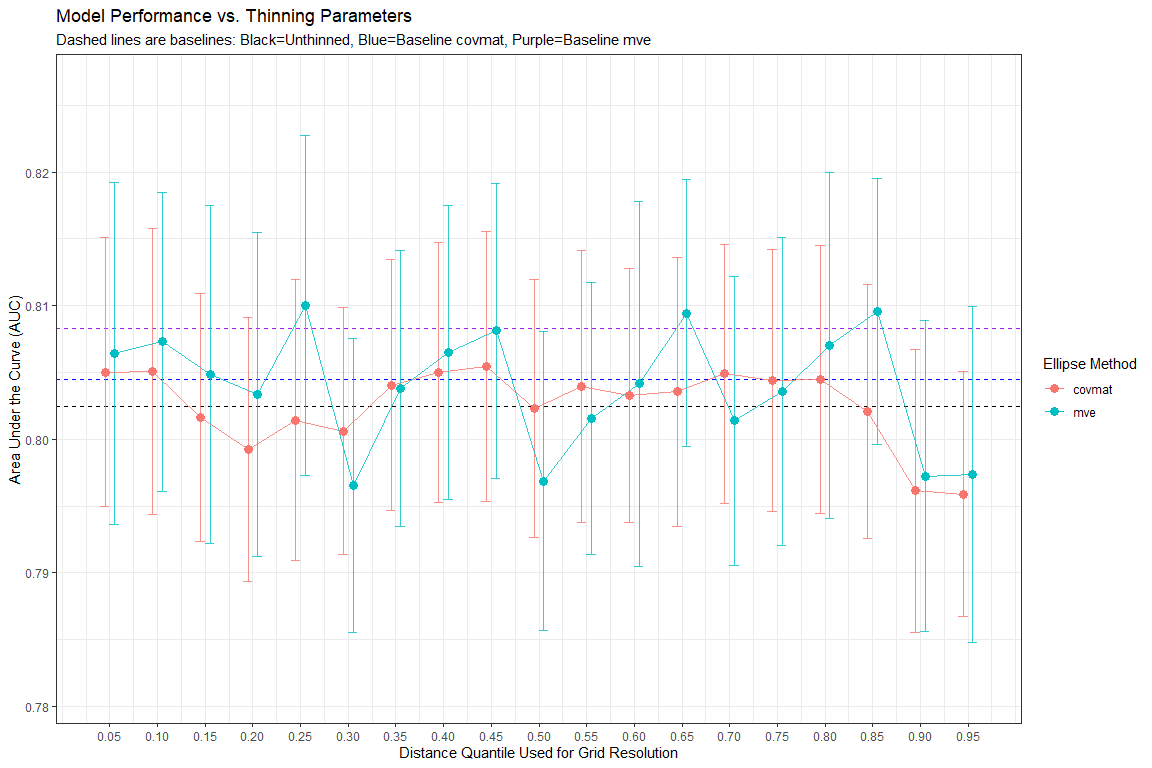
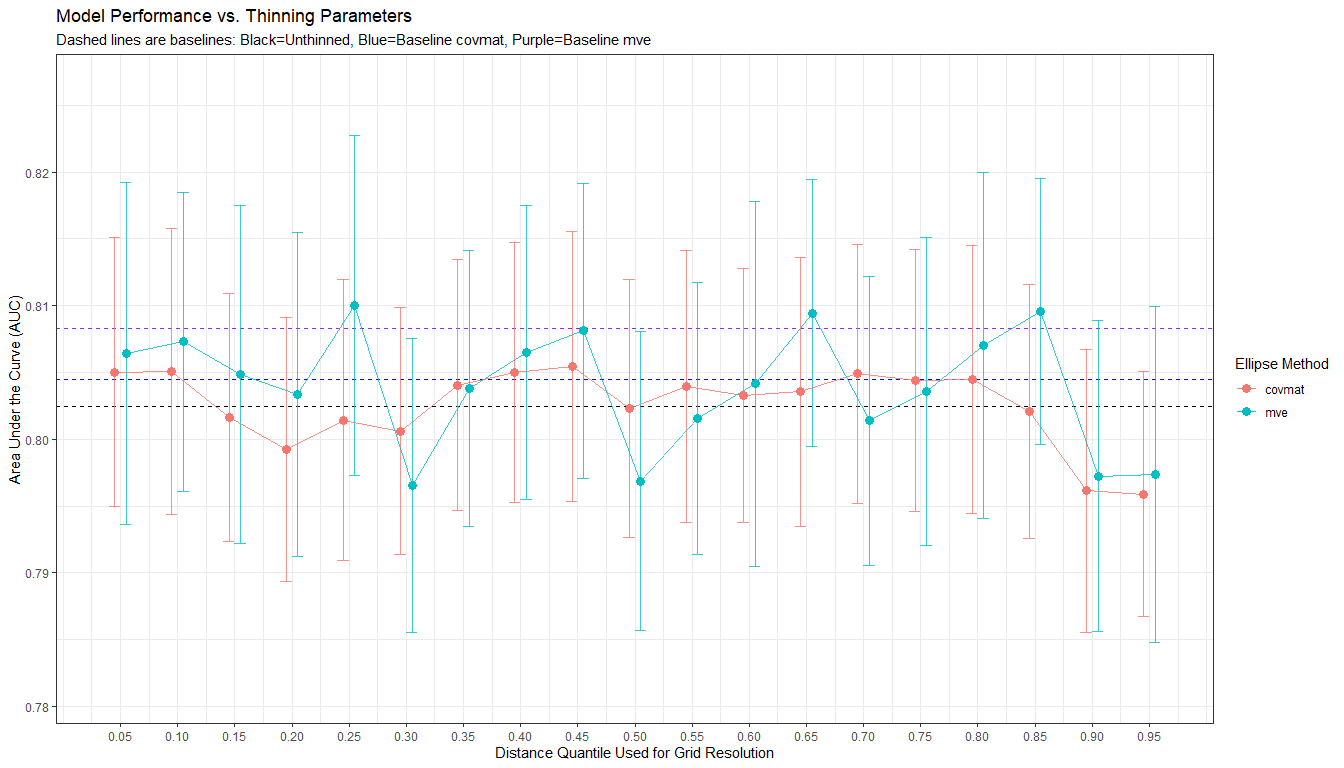
add update

diff --git a/README.md b/README.md
@@ -286,7 +286,7 @@ Now that we have an objective `grid_resolution` and an optimal
 `max_per_cell`, we can apply the thinning. We offer two methods:
 stochastic and deterministic.
 
-#### Method A: Stochastic Thinning with `thin_env_density`
+#### Method A: Stochastic Thinning with `thin_env_nd`
 
 This method randomly samples up to `max_per_cell` points from each
 occupied grid cell. It’s the most common approach.
@@ -354,7 +354,7 @@ head(thinned_deterministic$thinned_points)
 
 ### Step 6: Visualize the Thinning Results
 
-The `plot_bean()` function provides a powerful way to visualize the
+The `plot_bean_nd()` function provides a powerful way to visualize the
 effect of thinning by overlaying the thinned points on the original data
 within the environmental grid.
 
@@ -398,30 +398,23 @@ delineates this boundary.
 # Fit an ellipse that contains 95% of the thinned data
 stochastic_ellipse <- fit_ellipsoid(data = thinned_stochastic$thinned_data, 
                                     env_vars = c("PC1", "PC2", "PC3"), 
-                                    method = "covmat", 
+                                    method = "mve", 
                                     level = 0.95)
 # The returned object contains all the details
 # We can use the custom print() method for a clean summary
 stochastic_ellipse
 #> --- Bean Environmental Niche Ellipsoid ---
 #> 
-#> Method: 'covmat'.
+#> Method: 'mve'.
 #> Fitted in 3 dimensions to 1511 data points at a 95.00% level.
-#> 1462 out of 1511 points (96.8%) fall within the ellipsoid boundary.
+#> 1435 out of 1511 points (95.0%) fall within the ellipsoid boundary.
 #> 
 #> Niche Centroid:
 #>        PC1        PC2        PC3 
-#>  0.3597778  0.7756807 -1.7337123
+#>  0.3256219  0.7884274 -1.7091471
 
 # And we can use the custom plot() method for a powerful visualization
 plot(stochastic_ellipse)
-rgl::snapshot3d(knitr::fig_path(".png"))
-#> Warning in rgl::snapshot3d(knitr::fig_path(".png")): webshot = TRUE requires
-#> the webshot2 package and Chrome browser; using rgl.snapshot() instead
-rgl::rgl.close()
-#> Warning in rgl::rgl.close(): 'rgl::rgl.close' is deprecated.
-#> Use 'close3d' instead.
-#> See help("Deprecated")
 ```
 
 ### Deterministic Thinned Ellipsoid
@@ -447,13 +440,6 @@ deterministic_ellipse
 
 # And we can use the custom plot() method for a powerful visualization
 plot(deterministic_ellipse)
-rgl::snapshot3d(knitr::fig_path(".png"))
-#> Warning in rgl::snapshot3d(knitr::fig_path(".png")): webshot = TRUE requires
-#> the webshot2 package and Chrome browser; using rgl.snapshot() instead
-rgl::rgl.close()
-#> Warning in rgl::rgl.close(): 'rgl::rgl.close' is deprecated.
-#> Use 'close3d' instead.
-#> See help("Deprecated")
 ```
 
 ### Step 8: Evaluate Model Performance
@@ -576,10 +562,9 @@ auc_thinned
 #> 
 #> Summary of AUC Scores:
 #>   Mean_AUC SD_AUC Median_AUC Min_AUC Max_AUC
-#> 1    0.801  0.011      0.801   0.777   0.828
+#> 1    0.812   0.01      0.811   0.789    0.84
 #> 
 #> To see the distribution of AUC scores, run plot(your_results_object).
-
 plot(auc_thinned)
 ```
 
@@ -594,13 +579,13 @@ auc_ttest
 #>  Welch Two Sample t-test
 #> 
 #> data:  auc_original$all_auc_scores and auc_thinned$all_auc_scores
-#> t = 0.72728, df = 195.87, p-value = 0.4679
+#> t = -6.4159, df = 196.99, p-value = 1.019e-09
 #> alternative hypothesis: true difference in means is not equal to 0
 #> 95 percent confidence interval:
-#>  -0.001926445  0.004177385
+#>  -0.011867047 -0.006286957
 #> sample estimates:
 #> mean of x mean of y 
-#> 0.8025970 0.8014716
+#>  0.802597  0.811674
 
 # --- Visualize the Comparison ---
 # Combine results into a data frame for plotting
